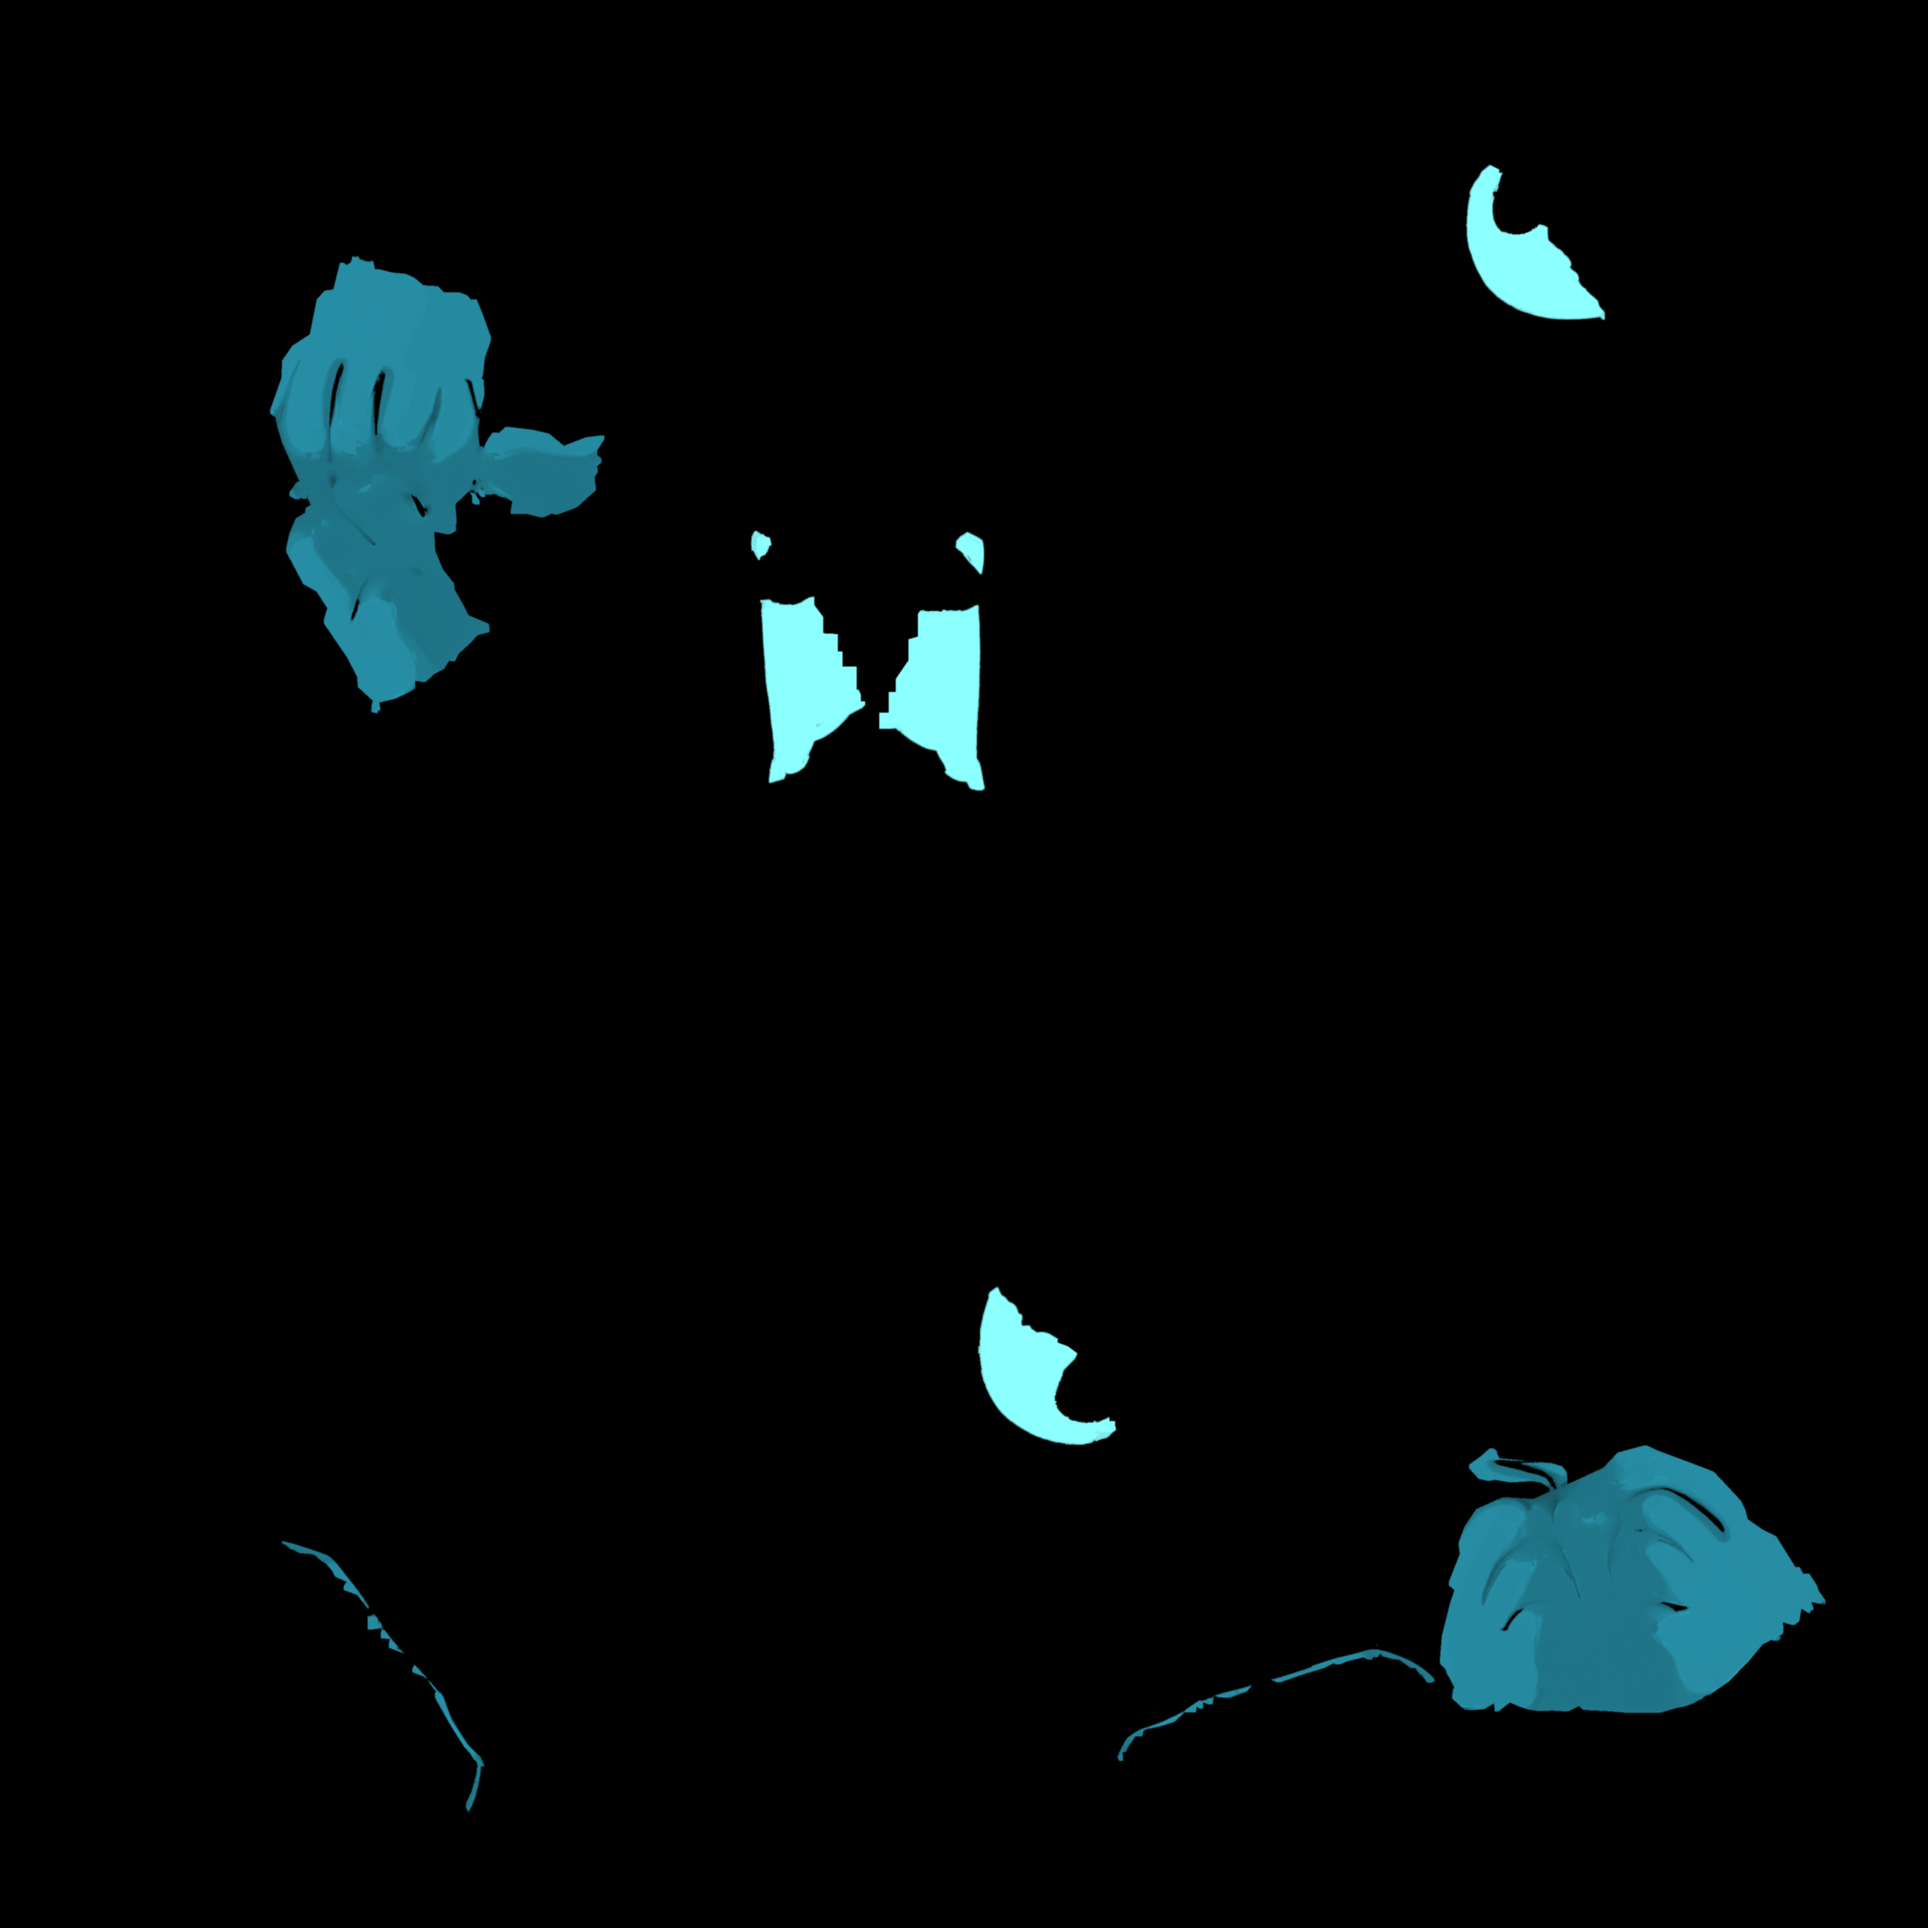
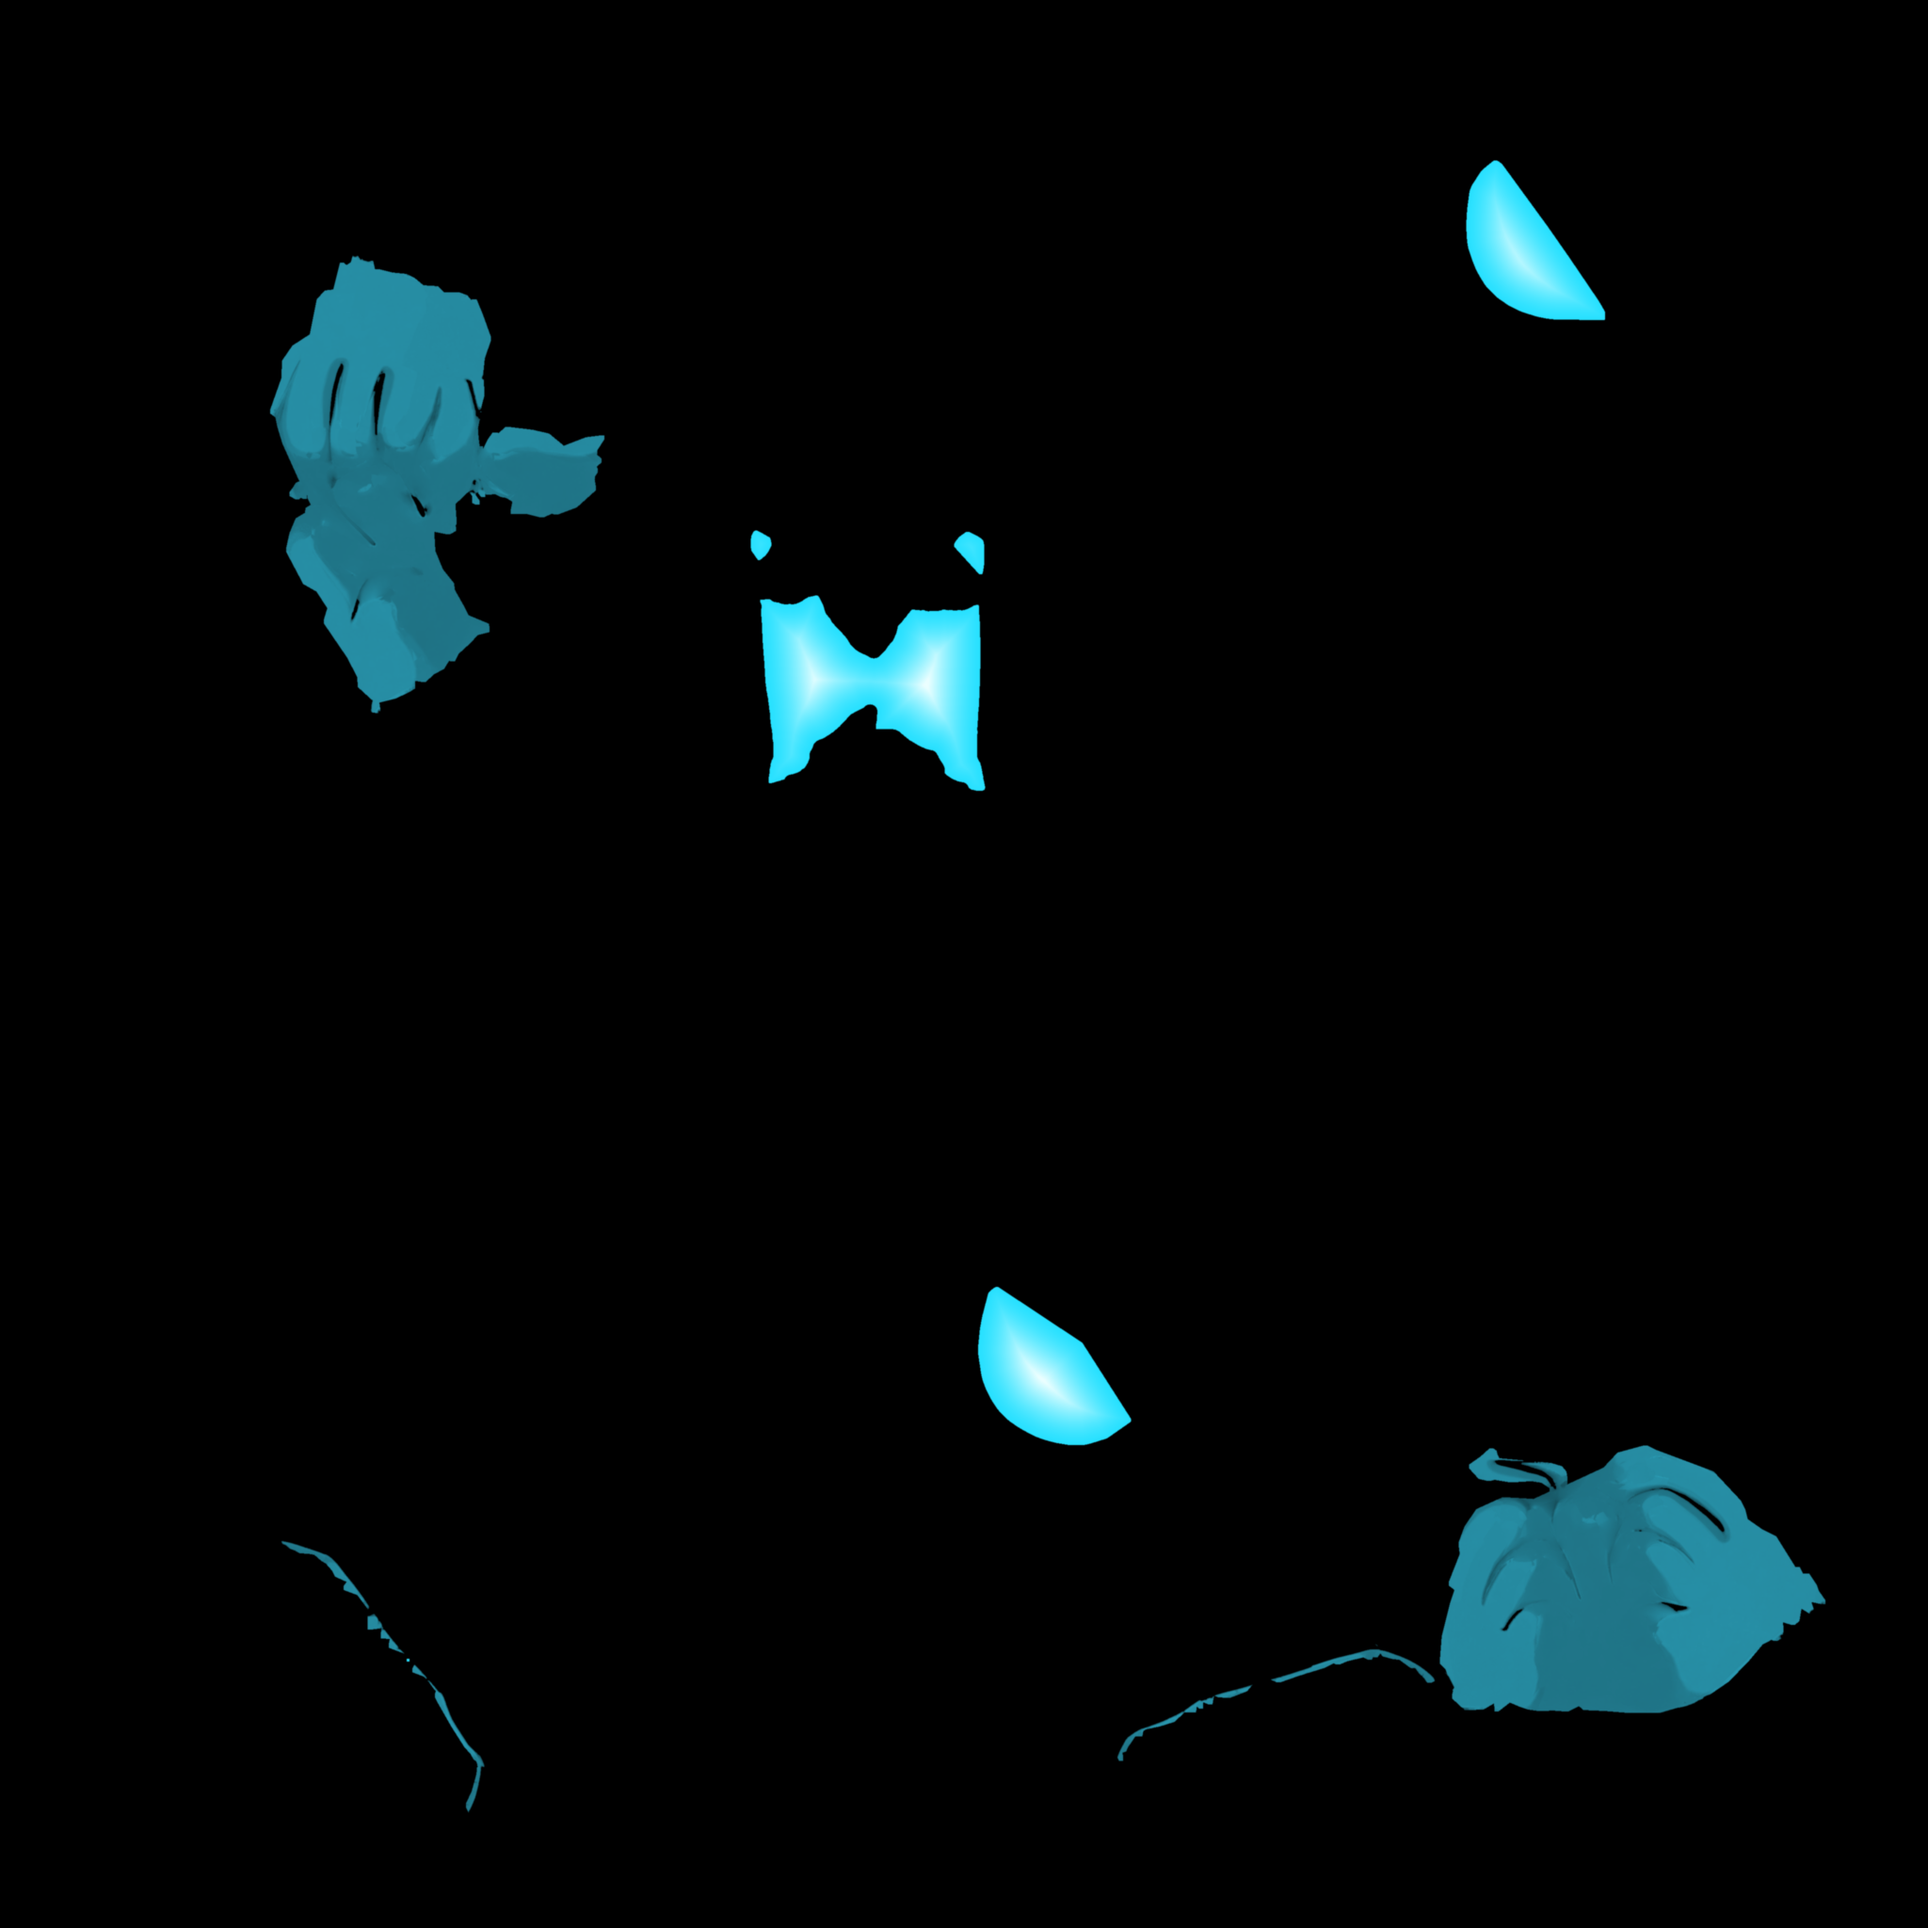
Spectre: eyes cyan and white-hot through, the glow centred on them, a mist that shows
The eye glow sat on the inner corner (6 cm out instead of 10) and the eyes
stayed flat pale white with dark pupils: spectre_tex.py now paints the whole
of each eye cyan with a white-hot middle in the base and emission maps (the
pupils filled), and the glows are centred on the eyes, measured off the
mesh. The aura's mist is bigger, brighter and sits out past the flames'
roots, round the head and the gloves; the head's flames start just off the
skin, so none cuts into the back of the head.

Claude-Session: https://claude.ai/code/session_0112BkhzVjprrpjz3Lkw5gVW

Changed region(s): [[0.375, 0.2812, 0.5312, 0.4062], [0.75, 0.0625, 0.8438, 0.1875], [0.5, 0.6562, 0.5938, 0.75]]

diff --git a/Assets/OODA/Scripts/Pilot/SpectreFlames.cs b/Assets/OODA/Scripts/Pilot/SpectreFlames.cs
@@ -105,7 +105,7 @@ namespace Ooda.Pilot
                 float a = az * Mathf.Deg2Rad, e = el * Mathf.Deg2Rad;
                 return Mathf.Cos(e) * (Mathf.Cos(a) * -fwd + Mathf.Sin(a) * right) + Mathf.Sin(e) * up;
             }
-            void OnHead(Vector3 d, float h, float w, float upMix, int kind, float r = 0.16f)
+            void OnHead(Vector3 d, float h, float w, float upMix, int kind, float r = 0.19f)   // r: just off the skin, so no flame cuts into it
             {
                 d = d.normalized;
                 Vector3 p = headMid + d * r * unit;
@@ -133,10 +133,10 @@ namespace Ooda.Pilot
                 OnHead(up + right * 0.35f, 0.36f, 0.11f, 0.9f, Flame);
                 OnHead(up - right * 0.35f, 0.36f, 0.11f, 0.9f, Flame);
                 if (aura)
-                    for (int k = 0; k < 12; k++)   // a thin mist clinging to the head, under the flames
+                    for (int k = 0; k < 16; k++)   // a glowing mist round the head, out past the flames' roots
                     {
-                        float az = R(-140f, 140f), el = Mathf.Abs(az) > 105f ? R(55f, 85f) : R(-20f, 80f);
-                        OnHead(Dir(az, el), R(0.06f, 0.12f), R(0.07f, 0.10f), 0.6f, Wisp, 0.14f);
+                        float az = R(-140f, 140f), el = Mathf.Abs(az) > 105f ? R(55f, 85f) : R(-25f, 80f);
+                        OnHead(Dir(az, el), R(0.08f, 0.16f), R(0.12f, 0.17f), 0.5f, Wisp, 0.24f);
                     }
             }
             else
@@ -152,10 +152,11 @@ namespace Ooda.Pilot
                     OnHead(Dir(R(-180f, 180f), R(70f, 90f)), R(0.35f, 0.55f), R(0.13f, 0.19f), 0.9f, Wisp, 0.17f);
             }
             list.Add(new Tongue { bone = head, at = head.InverseTransformPoint(headMid + up * 0.05f * unit), w = fog ? 0.55f : 0.50f, seed = R(0, 10), speed = 1, kind = Halo });
-            // the eyes blaze: a small hot glow over each, a little below the head's middle and 6 cm either side
+            // the eyes blaze: a hot glow centred on each (the eyes sit 0.12 over the head bone, 0.1 either side, 0.09 ahead;
+            // the glow just in front of them)
             for (int side = -1; side <= 1; side += 2)
-                list.Add(new Tongue { bone = head, at = head.InverseTransformPoint(headMid + (fwd * 0.19f + right * (0.062f * side) - up * 0.055f) * unit),
-                                      w = 0.10f, seed = R(0, 10), speed = 1.5f, kind = Halo, eye = true });
+                list.Add(new Tongue { bone = head, at = head.InverseTransformPoint(head.position + (up * 0.123f + right * (0.098f * side) + fwd * 0.12f) * unit),
+                                      w = 0.085f, seed = R(0, 10), speed = 1.5f, kind = Halo, eye = true });
 
             void OnHand(Transform hand, Transform lower)
             {
@@ -174,8 +175,8 @@ namespace Ooda.Pilot
                     for (int k = 0; k < 3; k++)   // a little mist round the glove, staying close
                     {
                         Vector3 d = Quaternion.AngleAxis(k * 120f + R(-20, 20), along) * across;
-                        list.Add(new Tongue { bone = hand, at = hand.InverseTransformPoint(mid + d * 0.02f * unit), outward = hand.InverseTransformDirection(d),
-                                              h = R(0.04f, 0.07f), w = R(0.05f, 0.07f), seed = R(0, 10), speed = R(0.9f, 1.3f), up = 0.5f, kind = Wisp });
+                        list.Add(new Tongue { bone = hand, at = hand.InverseTransformPoint(mid + d * 0.04f * unit), outward = hand.InverseTransformDirection(d),
+                                              h = R(0.05f, 0.08f), w = R(0.08f, 0.11f), seed = R(0, 10), speed = R(0.9f, 1.3f), up = 0.5f, kind = Wisp });
                     }
                 list.Add(new Tongue { bone = hand, at = hand.InverseTransformPoint(mid), w = 0.2f, seed = R(0, 10), speed = 1, kind = Halo });
             }
@@ -236,7 +237,7 @@ namespace Ooda.Pilot
                     pos[v + k] = c; nrm[v + k] = rise;
                     uv1[v + k] = new Vector2(w, g.kind);
                     uv2[v + k] = new Vector2(g.seed, g.speed);
-                    col[v + k] = g.eye ? new Color(0.85f, 1f, 1f, 1.5f) : g.kind == Halo ? new Color(0.6f, 0.9f, 1f, 0.9f) : new Color(1f, 1f, 1f, 1f);
+                    col[v + k] = g.eye ? new Color(0.7f, 1f, 1f, 1.6f) : g.kind == Halo ? new Color(0.6f, 0.9f, 1f, 0.9f) : g.kind == Wisp && look == Look.Aura ? new Color(1f, 1f, 1f, 1.5f) : new Color(1f, 1f, 1f, 1f);
                 }
                 if (on) { shown++; lo = Vector3.Min(lo, c); hi = Vector3.Max(hi, c); }
             }

diff --git a/Tools~/ArtPipeline/spectre_tex.py b/Tools~/ArtPipeline/spectre_tex.py
@@ -2,7 +2,7 @@
 # eyes left alone), the 2K metallic-smoothness map from Hi3D's separate metal and roughness maps, and a 2K emission map:
 # the eyes glowing cyan, the gloves a paler cyan. The head and gloves are found on the T-posed mesh (hi3d_scale.py's
 # 1 m frame, facing -Y: the head above z 0.62, the gloves out past |x| 0.37) and painted through its UVs; the eyes by
-# their colour (pale cyan) inside the head.
+# their colour (pale cyan), then painted cyan with white-hot middles.
 # Run: python -I spectre_tex.py -- <scaled work.blend> <texture folder from hi3d_prep.py> <out folder>
 import bpy, sys, numpy as np, cv2
 a = sys.argv[sys.argv.index('--')+1:]
@@ -23,18 +23,30 @@ head = cv2.dilate(head, k); glove = cv2.dilate(glove, k)   # cover the seams the
 base = cv2.resize(cv2.imread(TEX + '/Image.png'), (R, R), interpolation=cv2.INTER_AREA)
 hsv = cv2.cvtColor(base, cv2.COLOR_BGR2HSV)
 eye = ((hsv[..., 0] > 80) & (hsv[..., 0] < 100) & (hsv[..., 1] > 40) & (hsv[..., 2] > 200)).astype(np.uint8) * 255
-eye = cv2.dilate(eye, np.ones((5, 5), np.uint8)) & cv2.dilate(head, np.ones((61, 61), np.uint8))
+eye = cv2.dilate(eye, np.ones((5, 5), np.uint8))   # (that colour is only ever the eyes)
+eye = cv2.morphologyEx(eye, cv2.MORPH_CLOSE, cv2.getStructuringElement(cv2.MORPH_ELLIPSE, (31, 31)))   # the notches of the pupils
+# the pupils: each eye's front is a crescent of that colour round a dark pupil; fill its hull so the whole eye glows
+n, lab, st, _ = cv2.connectedComponentsWithStats(eye)
+for i in range(1, n):
+    if st[i, cv2.CC_STAT_AREA] < 60000:
+        ys, xs = np.nonzero(lab == i)
+        cv2.fillConvexPoly(eye, cv2.convexHull(np.stack([xs, ys], 1).astype(np.int32)), 255)
 print('texels: head', int((head > 0).sum()), 'gloves', int((glove > 0).sum()), 'eyes', int((eye > 0).sum()))
-# the head: a deep blue-black shadow that keeps the sculpt's shading, the eyes untouched
+# the head: a deep blue-black shadow that keeps the sculpt's shading
 dark = (base.astype(np.float32) * np.array([0.55, 0.32, 0.28])).astype(np.uint8)   # BGR: keep the blue
 hm = cv2.GaussianBlur(((head > 0) & (eye == 0)).astype(np.float32), (7, 7), 0)[..., None]
 out = (base * (1 - hm) + dark * hm).astype(np.uint8)
+# the eyes: cyan, white-hot toward the middle of each (by distance in from its edge)
+core = np.clip(cv2.distanceTransform((eye > 0).astype(np.uint8), cv2.DIST_L2, 5) / 110.0, 0, 1)[..., None] ** 1.5
+eyeCol = np.array([255, 225, 40], np.float32) * (1 - core) + np.array([255, 255, 235], np.float32) * core   # BGR
+em_ = cv2.GaussianBlur((eye > 0).astype(np.float32), (5, 5), 0)[..., None]
+out = (out * (1 - em_) + eyeCol * em_).astype(np.uint8)
 cv2.imwrite(OUT + '/Spectre_BaseColor.png', out)
 # emission (2K): eyes near-white cyan, gloves a softer cyan, both kept from the texture's own shading
 h = R // 2
 em = np.zeros((R, R, 3), np.float32)
 lum = base.astype(np.float32).mean(2, keepdims=True) / 255
-em += (eye[..., None] > 0) * np.array([255, 255, 140]) * np.clip(lum * 1.2, 0, 1)          # BGR
+em += (eye[..., None] > 0) * eyeCol                                                           # the eyes' own cyan and white
 em += ((glove[..., None] > 0) & (eye[..., None] == 0) & (lum > 0.45)) * np.array([255, 220, 60]) * np.clip(lum, 0, 1) * 0.75   # the pale glove, not its dark cuff
 em = cv2.GaussianBlur(em, (5, 5), 0)
 cv2.imwrite(OUT + '/Spectre_Emission.png', cv2.resize(np.clip(em, 0, 255).astype(np.uint8), (h, h), interpolation=cv2.INTER_AREA))
